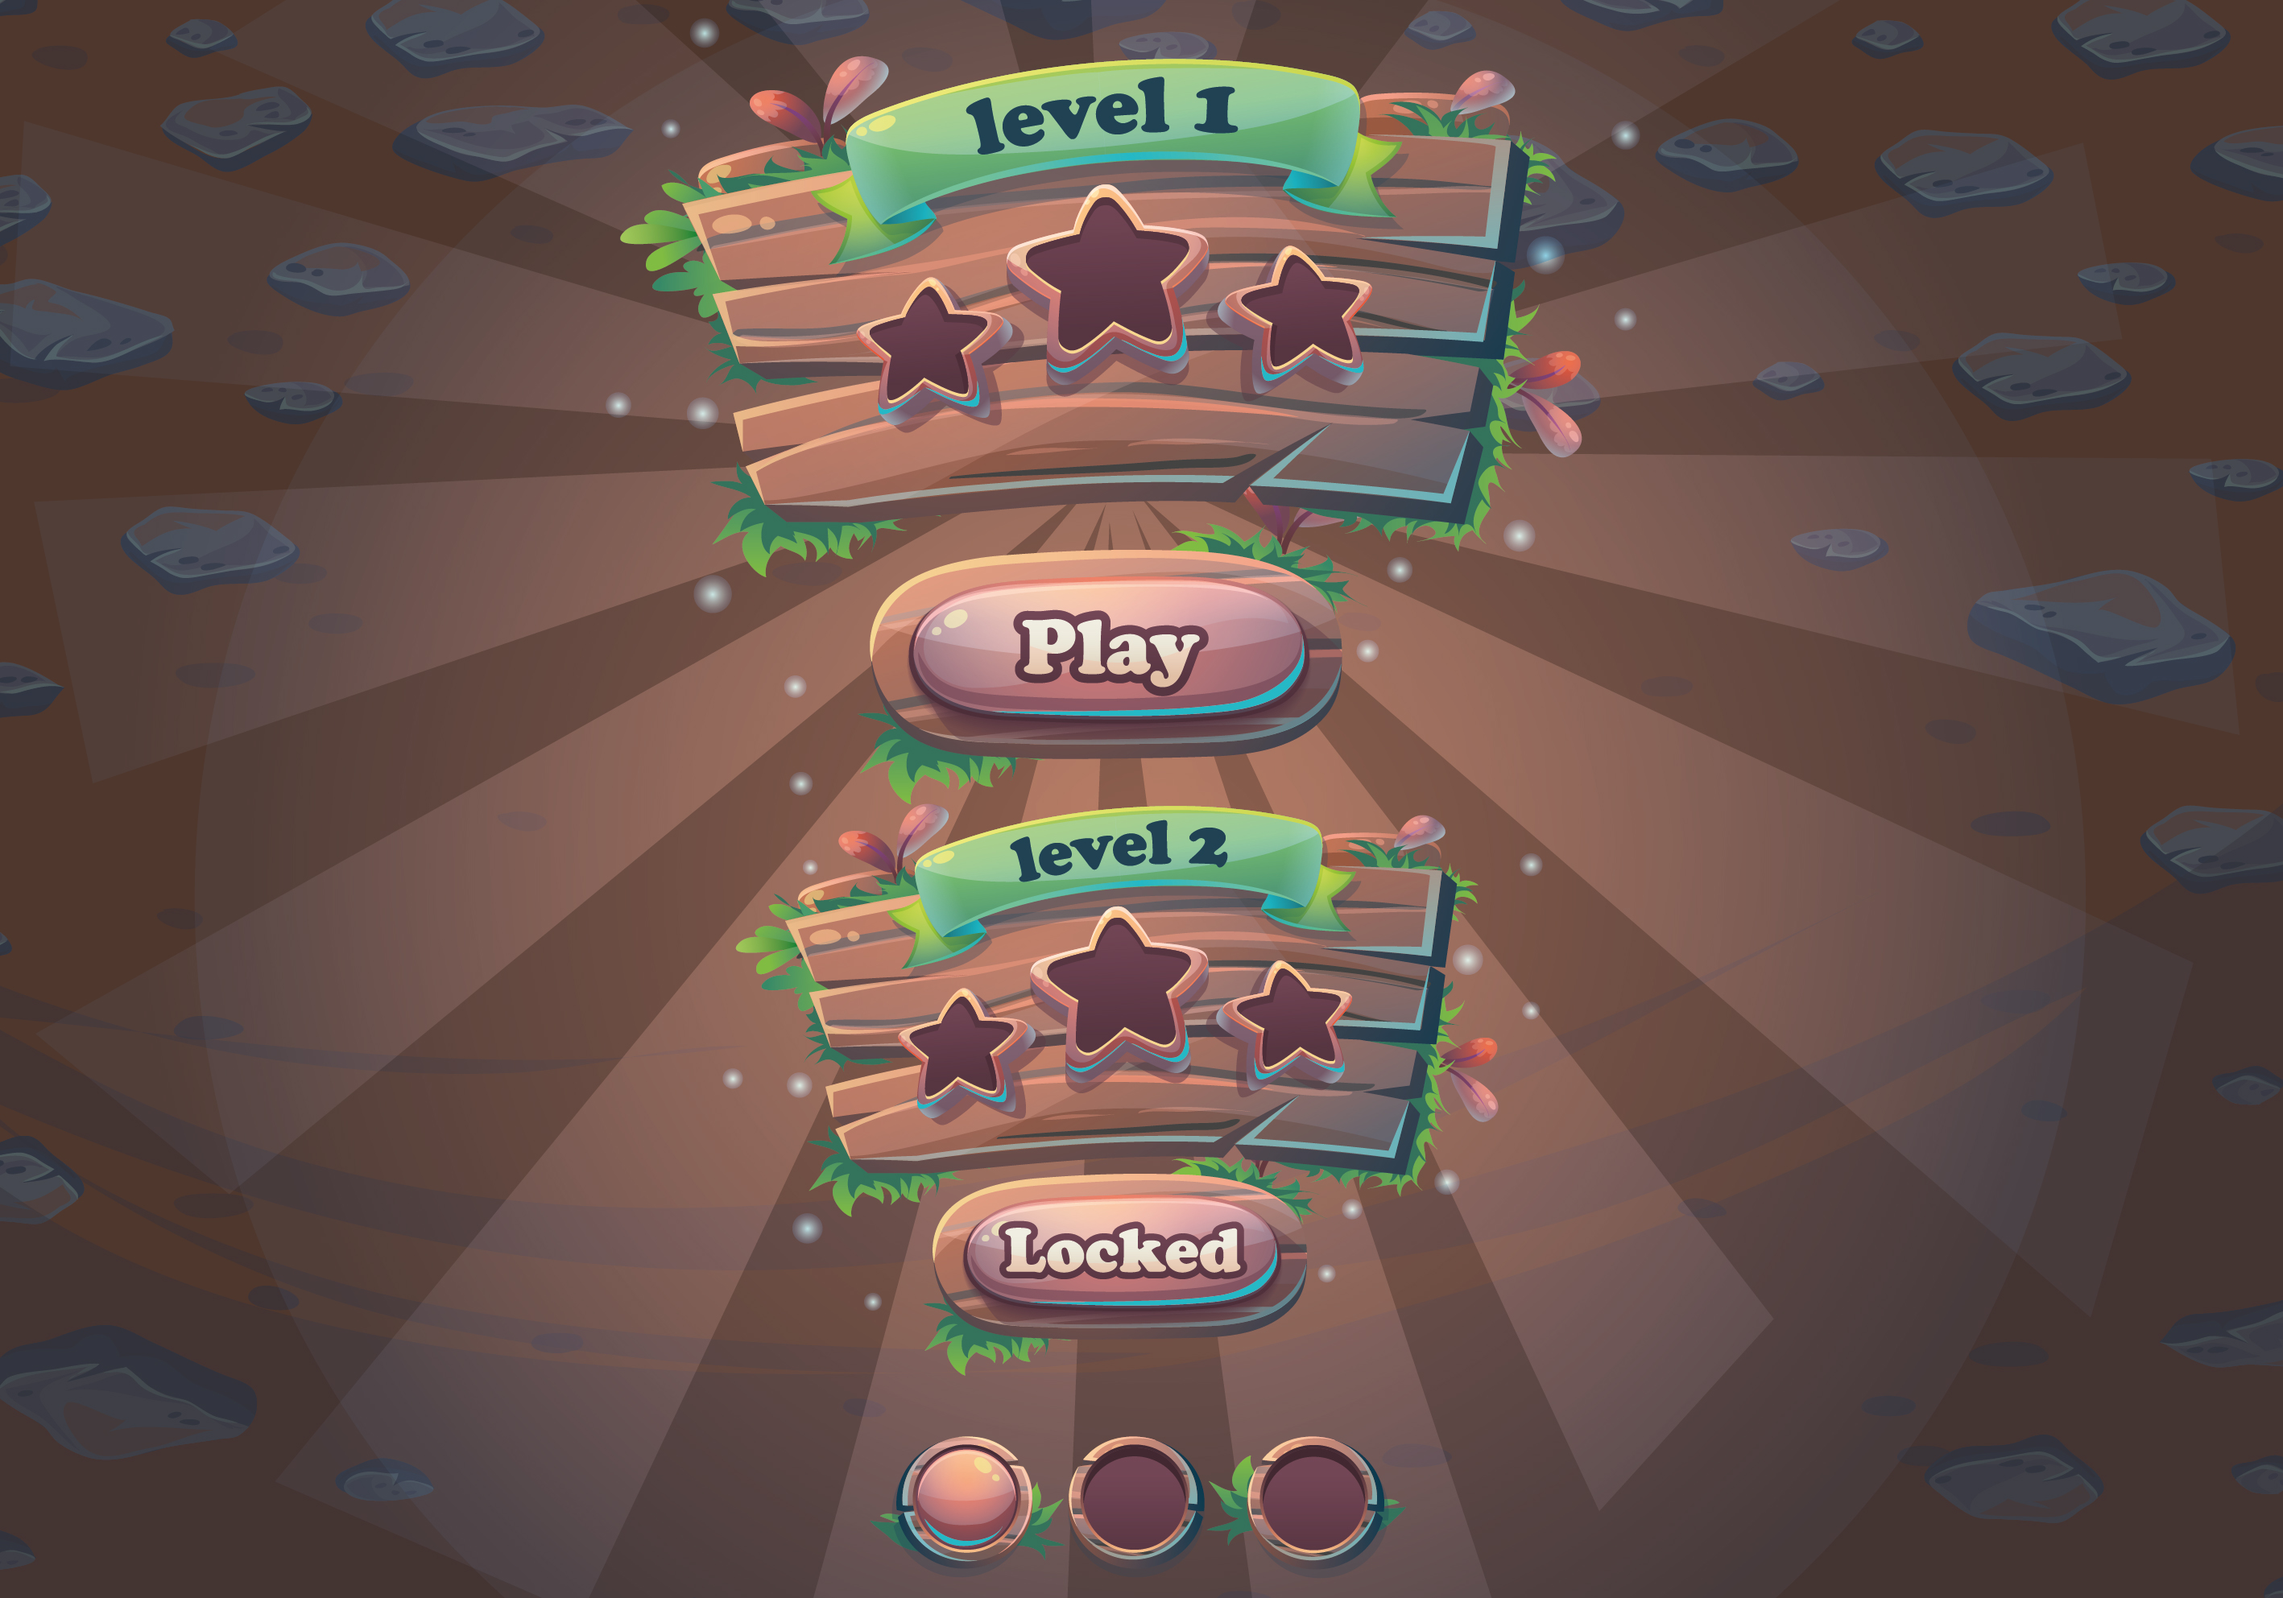
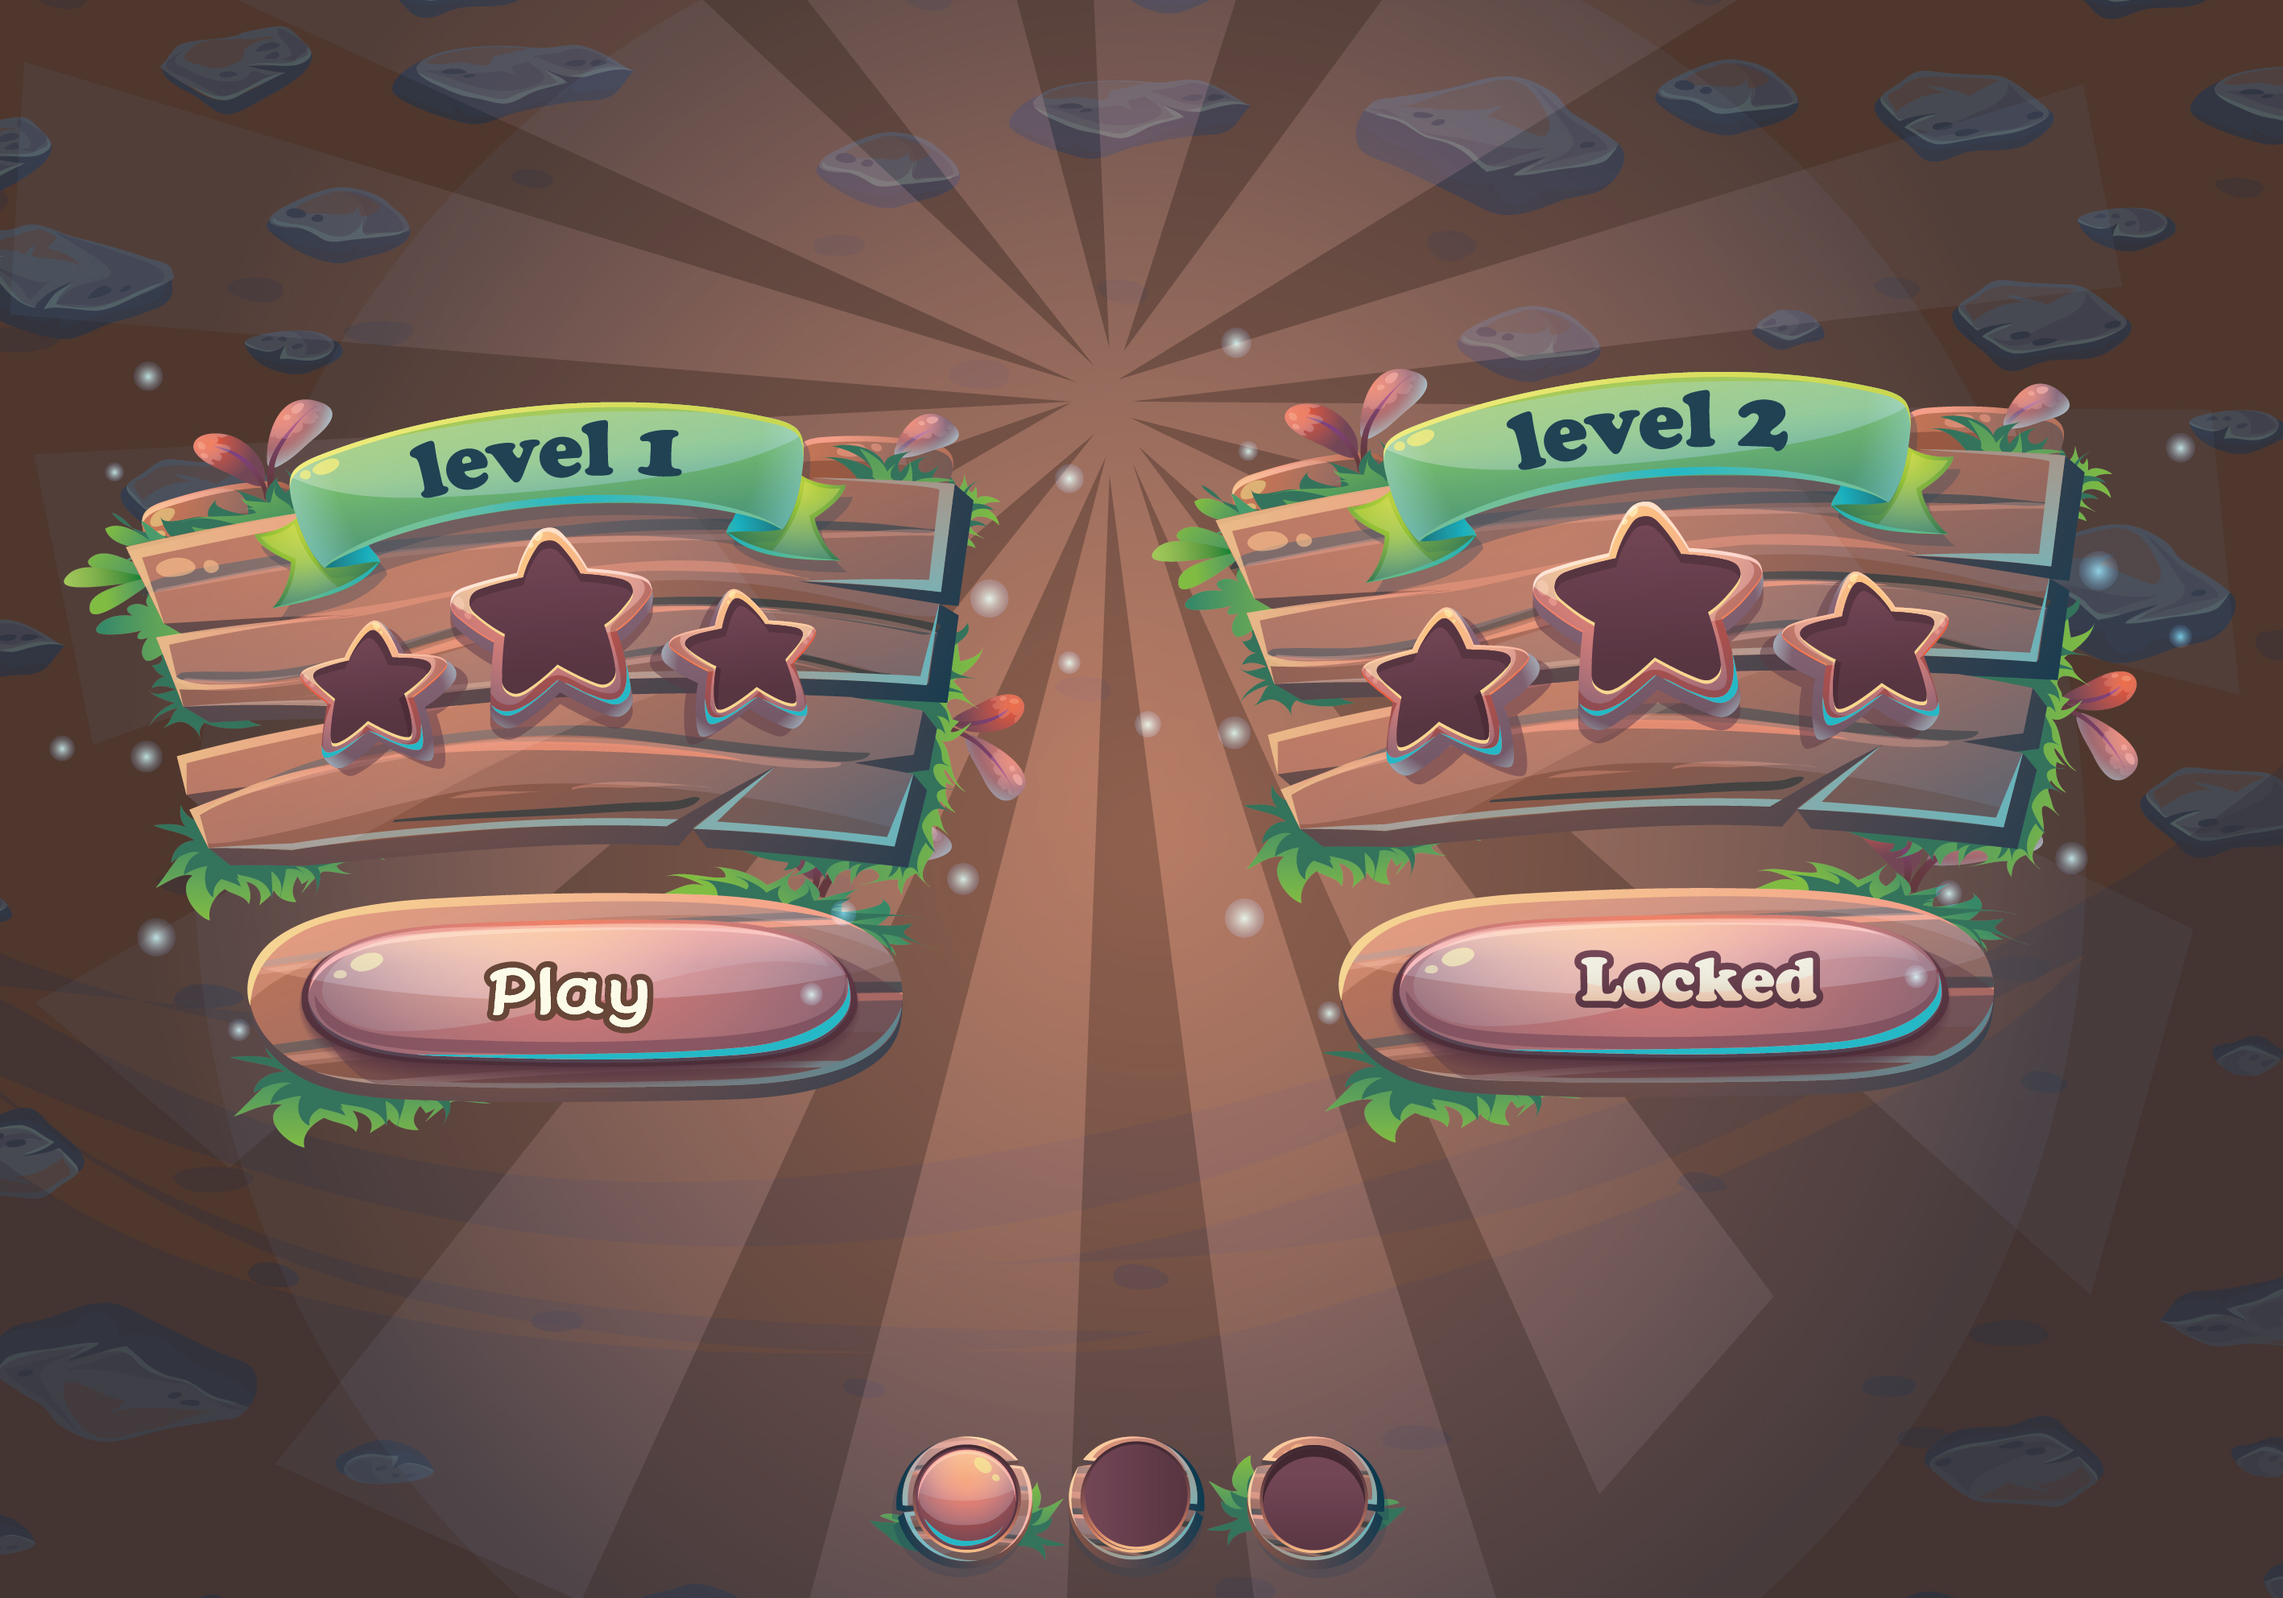
first commit

diff --git a/src/Main.java b/src/Main.java
@@ -58,9 +58,9 @@ public class Main extends PApplet{
 
 
         button =new Button (385,80,250,80,"Play",0,111,154);
-        Continue =new Button (0,540,290,80,"CONTINUE",0,111,154);
-        lvl1 =new Button (380,245,200,80,"Play",0,111,154);
-        lvl2 =new Button (380,540,220,70,"Play",0,111,154);
+        Continue =new Button (365,540,290,80,"CONTINUE",0,111,154);
+        lvl1 =new Button (150,405,200,55,"lvl1",0,111,154);
+        lvl2 =new Button (630,405,220,55,"lvl2",0,111,154);
         Back =new Button (365,540,300,70,"BACK",0,111,154);
         minim =new Minim(this);
         music =minim.loadFile("Om_Kalsoum.wav");
@@ -82,6 +82,8 @@ public class Main extends PApplet{
         lvl2_start.resize(width,height);
         lvl3_start.resize(width,height);
         lose.resize(width, height);
+        score.resize(width, height);
+
         startbg.resize(width,height);
         Archer = new Character("shooterr.png", 0, mouseY,ArcherX, ArcherY);
         arrowList = new ArrayList<>();
